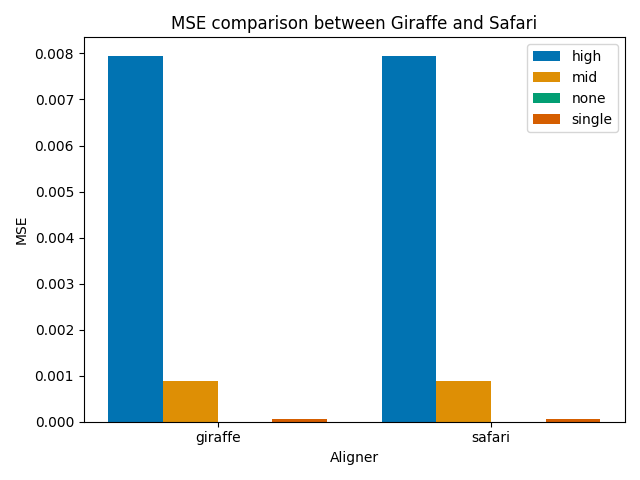
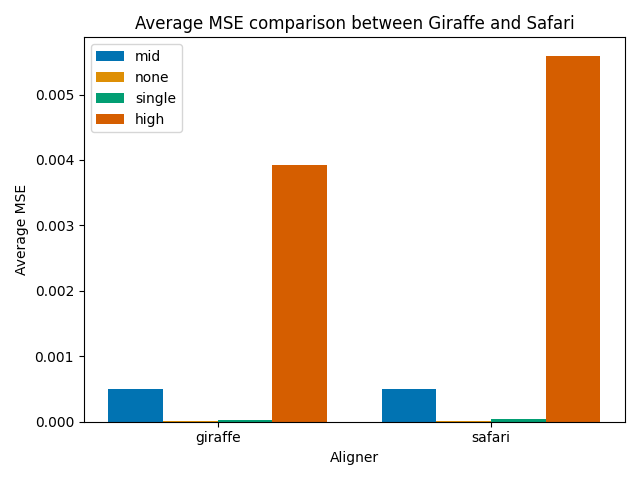
Update

diff --git a/linear_experiment/human_mito/compare_damage_est.py b/linear_experiment/human_mito/compare_damage_est.py
@@ -42,7 +42,6 @@ def load_damage_data(file_name):
 def load_prof_data(file_name):
     file_path = os.path.join(prof_data_path, file_name)
     if os.path.getsize(file_path) == 0:
-        #print(f'File {file_name} is empty.')
         return None, None
     try:
         with open(file_path, 'r') as file:
@@ -85,7 +84,11 @@ def compute_mse(true_data, estimated_data):
             print('Estimated data is empty.')
             return None
         
-        mse = ((true_data.values - estimated_data.values) ** 2).mean()
+        if true_data.isnull().all().all() or estimated_data.isnull().all().all():
+            #print('All values are NaN in true_data or estimated_data.')
+            return None
+        
+        mse = np.nanmean((true_data.values - estimated_data.values) ** 2)
     except Exception as e:
         print(f'Error computing MSE: {e}')
         return None
@@ -112,7 +115,7 @@ def plot_mse(mse_data, plot_title, save_file_name):
         ax.bar(x + i*width, mse_values, width, label=damage_type, color=colorblind_colors[i])
     
     ax.set_xlabel('Aligner')
-    ax.set_ylabel('MSE')
+    ax.set_ylabel('Average MSE')
     ax.set_title(plot_title)
     ax.set_xticks(x + width*(len(damage_types)-1)/2)
     ax.set_xticklabels(aligners)
@@ -121,43 +124,51 @@ def plot_mse(mse_data, plot_title, save_file_name):
     fig.tight_layout()
     plt.savefig(save_file_name)
     
-    # Print MSE values
+    # Print average MSE values
     for aligner in aligners:
         for damage_type in damage_types:
-            print(f'MSE for {aligner} with damage type {damage_type}: {mse_data[aligner][damage_type]}')
+            print(f'Average MSE for {aligner} with damage_type {damage_type}: {mse_data[aligner][damage_type]}')
 
 def check_data(damage_data_dict, prof_data_dict):
-    mse_data = defaultdict(lambda: defaultdict(float))
+    mse_sum_data = defaultdict(lambda: defaultdict(float))
+    mse_count_data = defaultdict(lambda: defaultdict(int))
     for file_name, (table1, table2) in prof_data_dict.items():
-        if table1 is None or table2 is None:
-            continue
         damage_type = extract_damage_type(file_name)
         aligner = extract_aligner(file_name)
 
-        true_data_key = f'{damage_type}{len(table1)}.dat'
+        if table1 is not None:
+            true_data_key = f'{damage_type}{len(table1)}.dat'
+            if true_data_key in ['high5.dat', 'high3.dat', 'mid5.dat', 'mid3.dat']:
+                true_data_key = "d" + true_data_key
 
-        if true_data_key == 'high5.dat':
-            true_data_key= "dhigh5.dat"
-        if true_data_key == 'high3.dat':
-            true_data_key= "dhigh3.dat"
-        if true_data_key == 'mid5.dat':
-            true_data_key= "dmid5.dat"
-        if true_data_key == 'mid3.dat':
-            true_data_key= "dmid3.dat"
+            true_data = damage_data_dict.get(true_data_key)
+            mse_table1 = compute_mse(true_data, table1)
 
-        true_data = damage_data_dict.get(true_data_key)
+            if mse_table1 is not None:
+                mse_sum_data[aligner][damage_type] += mse_table1
+                mse_count_data[aligner][damage_type] += 1
 
-        mse_table1 = compute_mse(true_data, table1)
-        mse_table2 = compute_mse(true_data, table2)
+        if table2 is not None:
+            true_data_key = f'{damage_type}{len(table2)}.dat'
+            if true_data_key in ['high5.dat', 'high3.dat', 'mid5.dat', 'mid3.dat']:
+                true_data_key = "d" + true_data_key
 
-        if mse_table1 is not None:
-            mse_data[aligner][damage_type] = mse_table1
-        if mse_table2 is not None:
-            mse_data[aligner][damage_type] = mse_table2
+            true_data = damage_data_dict.get(true_data_key)
+            mse_table2 = compute_mse(true_data, table2)
 
-    plot_mse(mse_data, 'MSE by aligner and damage type', 'mse_plot.png')
-    filtered_mse_data = filter_mse_data_for_giraffe_and_safari(mse_data)
-    plot_mse(filtered_mse_data, 'MSE comparison between Giraffe and Safari', 'mse_plot_giraffe_safari.png')
+            if mse_table2 is not None:
+                mse_sum_data[aligner][damage_type] += mse_table2
+                mse_count_data[aligner][damage_type] += 1
+
+    mse_avg_data = defaultdict(lambda: defaultdict(float))
+    for aligner, damage_data in mse_sum_data.items():
+        for damage_type, mse_sum in damage_data.items():
+            mse_avg_data[aligner][damage_type] = mse_sum / mse_count_data[aligner][damage_type]
+
+    plot_mse(mse_avg_data, 'Average MSE by aligner and damage type', 'mse_plot.png')
+    filtered_mse_data = filter_mse_data_for_giraffe_and_safari(mse_avg_data)
+    plot_mse(filtered_mse_data, 'Average MSE comparison between Giraffe and Safari', 'mse_plot_giraffe_safari.png')
+
 
 if __name__ == "__main__":
     damage_data_path = '.'
